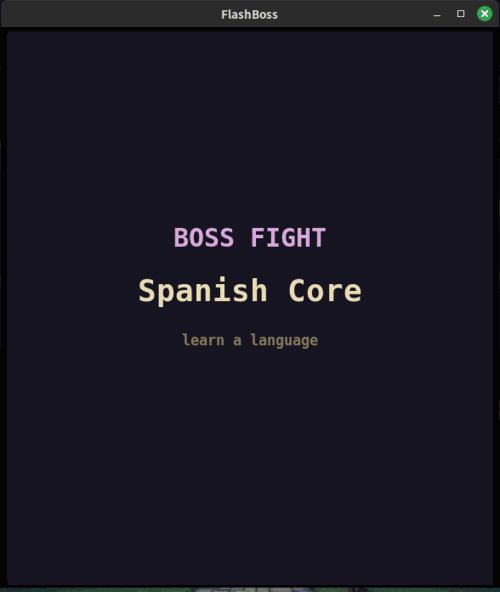
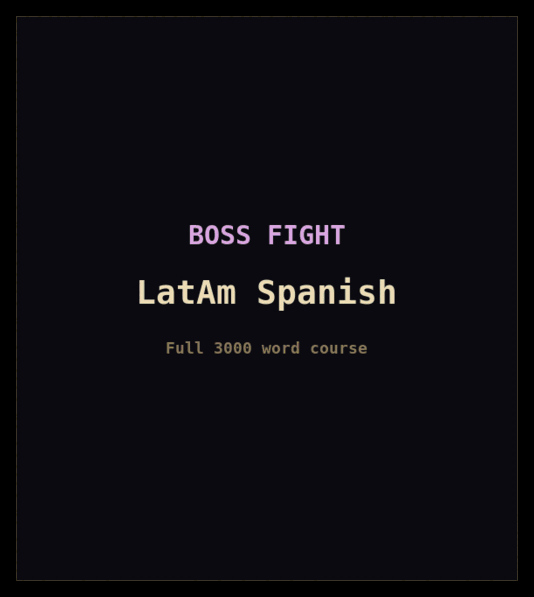
The fight now goes wrong once, and the film is the terminal only, floating in black
A full reshoot of the three English fights, with everything learned since the
first one.

THE ARC. Odiin: "you are supposed to encounter adversity at least once in the
bossfight. get to the killstroke, miss it. fight back, win." A flawless run
films none of what the copy promises -- one step forward with a correct answer,
TWO steps back with each mistake. The routes now walk the hero to position 4,
lose it, and climb back: Danger zone, Correct, Correct, KILLSTROKE POSITION,
"Wrong! Pushed back!", Correct, KILLSTROKE POSITION, VICTORY. The card that was
missed is the one printed in red on the cluster-victory list afterwards.

The route language had no way to be wrong on purpose, so key_script.py gains a
MISS verb. It resolves the RIGHT digit exactly as ANSWER does, so it only fires
on a screen the bench fully understands, then presses a different one. The bench
is a pinned worktree and has been restored byte-identical, with its git status
and local_db back to the baseline; the patch is kept here as
key_script_MISS.patch so the routes stay reproducible and it can go upstream.

THE FORMAT. Odiin: "I want a capture only of the inside of the terminal,
bordered, floating in black. no title bar, no scrollbar." The crop is measured,
not guessed: the terminal paints #171421 and the window border is black, so
walking in from both axes gives 572x644+357+39. No chrome, no wallpaper, no
scrollbar -- there is none.
[…]

diff --git a/home.html b/home.html
@@ -22,7 +22,7 @@
 })();
 </script>
 <title>FlashBoss — Flashcards with Boss Fights</title>
-<meta name="description" content="FlashBoss: spaced-repetition flashcards with boss fights. Build a real vocabulary: English, German, Spanish, Italian, French, Esperanto, or Toki Pona. Five packs free, the rest on Steam. Listen, read, repeat, rate, fight.">
+<meta name="description" content="FlashBoss: spaced-repetition flashcards with boss fights. Build a real vocabulary: English, Latin, French, Swahili, German, Italian, Spanish, Esperanto, or Toki Pona. Five packs free, the rest on Steam. Listen, read, repeat, rate, fight.">
 <link rel="icon" type="image/png" href="icon.png">
 <!-- TODO: hreflang URLs should be absolute (production domain) -->
 <link rel="canonical" href="https://odiin2024.github.io/flashboss-site/home.html">
@@ -181,9 +181,10 @@ p.body b{color:var(--accent);}
 }
 
 /* ---- what you get ---- */
-.gives{display:grid; grid-template-columns:repeat(3,1fr); gap:0; border:1px solid var(--line); border-top:0; position:relative; overflow:hidden;}
+.gives{display:grid; grid-template-columns:repeat(4,1fr); gap:0; border:1px solid var(--line); border-top:0; position:relative; overflow:hidden;}
 .gives::after{content:""; position:absolute; left:0; right:0; top:0; height:3px;
   background:linear-gradient(90deg, var(--gold), var(--green) 52%, var(--blue));}
+@media(max-width:980px){.gives{grid-template-columns:repeat(2,1fr);} .give:nth-child(2n){border-right:0;}}
 @media(max-width:680px){.gives{grid-template-columns:1fr;}}
 .give{padding:30px 22px 26px; border-right:1px solid var(--line); display:flex; flex-direction:column;}
 .give:nth-child(1){background:linear-gradient(180deg, rgba(224,169,63,.08), transparent 58%);}
@@ -271,7 +272,7 @@ footer .footer-links .div{opacity:.4;}
     <div class="wrap">
       <h1 class="reveal">FlashBoss<span class="cursor"></span></h1>
       <p class="sig reveal">spaced-repetition with boss fights</p>
-      <p class="lede reveal">Build a real vocabulary: <b><a href="packs.html">English</a>, <a href="german.html">German</a>, <a href="spanish.html">Spanish</a>, <a href="italian.html">Italian</a>, <a href="french.html">French</a>, <a href="esperanto.html">Esperanto</a>, or <a href="toki-pona.html">Toki Pona</a></b> — then prove it in a duel.</p>
+      <p class="lede reveal">Build a real vocabulary: <b><a href="packs.html">English</a>, <a href="latin.html">Latin</a>, <a href="french.html">French</a>, <a href="swahili.html">Swahili</a>, <a href="german.html">German</a>, <a href="italian.html">Italian</a>, <a href="spanish.html">Spanish</a>, <a href="esperanto.html">Esperanto</a>, or <a href="toki-pona.html">Toki Pona</a></b> — then prove it in a duel.</p>
       <div class="actions reveal">
         <a class="btn" href="wordlists.html">word lists</a>
         <a class="btn" href="lessons.html">lessons</a>
@@ -325,7 +326,7 @@ footer .footer-links .div{opacity:.4;}
           <p><a href="https://flashboss-demo.pages.dev/">Try the live demo &rarr;</a></p>
         </div>
         <a class="bf-box" href="https://flashboss-demo.pages.dev/">
-          <img src="bossfight-poster.png" data-gif="bossfight.gif" alt="Three FlashBoss boss fights in a row, each announced by a title card: Spanish Core asks for the Spanish word for heart, Latin Roots asks which word means a glass tank for fish, and The Guide asks you to name the spell from its rules text.">
+          <img src="bossfight-poster.png" data-gif="bossfight.gif" alt="Three FlashBoss boss fights in a row, each announced by its own title card. LatAm Spanish asks for the Spanish word for heart, Latin Roots asks which word means a glass tank for fish, and The Guide asks you to name the spell from its rules text. Each fight reaches the killstroke position, loses it to a wrong answer and is pushed two steps back, then climbs again and wins.">
           <span class="bf-hint">try the demo</span>
         </a>
       </div>
@@ -348,7 +349,11 @@ footer .footer-links .div{opacity:.4;}
         </div>
         <div class="give">
           <div class="g-h">Full language courses</div>
-          <p>Learn <a href="german.html">German</a>, <a href="italian.html">Italian</a>, <a href="spanish.html">Spanish</a>, <a href="french.html">French</a>, or <a href="esperanto.html">Esperanto</a> with FlashBoss. 3,000 words each — French completes with Pareto 1 and 2, out now.</p>
+          <p>Learn <a href="latin.html">Latin</a>, <a href="french.html">French</a>, <a href="swahili.html">Swahili</a>, <a href="german.html">German</a>, <a href="italian.html">Italian</a>, <a href="spanish.html">Spanish</a> or <a href="esperanto.html">Esperanto</a> with FlashBoss. Most run 3,000 words across Core, Pareto 1 and Pareto 2 — Latin is a 2,000-word reading course, and Swahili's Core is out with its Pareto packs to come.</p>
+        </div>
+        <div class="give">
+          <div class="g-h">Not a language at all</div>
+          <p><a href="the-guide.html">The Guide</a> — the rules a game master needs in their head, as flashcards. 1,205 cards in 62 clusters, 5E compatible.</p>
         </div>
       </div>
     </div>

diff --git a/index.ru.html b/index.ru.html
@@ -4,7 +4,7 @@
     <meta charset="UTF-8">
     <meta name="viewport" content="width=device-width, initial-scale=1.0, viewport-fit=cover">
     <title>FlashBoss — Карточки с босс-файтами</title>
-    <meta name="description" content="FlashBoss — карточки с интервальным повторением и настоящими босс-файтами. Пять языковых курсов: английский, немецкий, испанский, итальянский и эсперанто. Уже в Steam.">
+    <meta name="description" content="FlashBoss — карточки с интервальным повторением и настоящими босс-файтами. Восемь языковых курсов: латынь, французский, суахили, немецкий, итальянский, испанский, эсперанто и Toki Pona, а также английский, серия Roots и The Guide для мастеров. Уже в Steam.">
     <meta name="theme-color" content="#0a0a19">
 
     <meta property="og:type" content="website">

diff --git a/index.ja.html b/index.ja.html
@@ -4,7 +4,7 @@
     <meta charset="UTF-8">
     <meta name="viewport" content="width=device-width, initial-scale=1.0, viewport-fit=cover">
     <title>FlashBoss — ボス戦つきフラッシュカード</title>
-    <meta name="description" content="FlashBoss — 本物のボス戦と間隔反復のフラッシュカード。5つの語学コース：英語・ドイツ語・スペイン語・イタリア語・エスペラント語。Steamで発売中。">
+    <meta name="description" content="FlashBoss — 本物のボス戦と間隔反復のフラッシュカード。8つの語学コース：ラテン語・フランス語・スワヒリ語・ドイツ語・イタリア語・スペイン語・エスペラント語・トキポナ。さらに英語、Rootsシリーズ、ゲームマスターのためのThe Guide。Steamで発売中。">
     <meta name="theme-color" content="#0a0a19">
 
     <meta property="og:type" content="website">

diff --git a/index.zh.html b/index.zh.html
@@ -4,7 +4,7 @@
     <meta charset="UTF-8">
     <meta name="viewport" content="width=device-width, initial-scale=1.0, viewport-fit=cover">
     <title>FlashBoss — 带头目战的闪卡</title>
-    <meta name="description" content="FlashBoss——真正的头目战与间隔重复闪卡。5 门语言课程：英语、德语、西班牙语、意大利语、世界语。已在 Steam 发售。">
+    <meta name="description" content="FlashBoss——真正的头目战与间隔重复闪卡。8 门语言课程：拉丁语、法语、斯瓦希里语、德语、意大利语、西班牙语、世界语与 Toki Pona，另有英语、Roots 系列，以及写给带团的人的 The Guide。已在 Steam 发售。">
     <meta name="theme-color" content="#0a0a19">
 
     <meta property="og:type" content="website">

diff --git a/index.de.html b/index.de.html
@@ -4,7 +4,7 @@
     <meta charset="UTF-8">
     <meta name="viewport" content="width=device-width, initial-scale=1.0, viewport-fit=cover">
     <title>FlashBoss — Karteikarten mit Bossfights</title>
-    <meta name="description" content="FlashBoss — Karteikarten mit echten Bossfights und Spaced Repetition. Fünf Sprachkurse: Englisch, Deutsch, Spanisch, Italienisch und Esperanto. Jetzt auf Steam.">
+    <meta name="description" content="FlashBoss — Karteikarten mit echten Bossfights und Spaced Repetition. Acht Sprachkurse: Latein, Französisch, Swahili, Deutsch, Italienisch, Spanisch, Esperanto und Toki Pona, dazu Englisch, die Roots Series und The Guide für Spielleitungen. Jetzt auf Steam.">
     <meta name="theme-color" content="#0a0a19">
 
     <meta property="og:type" content="website">

diff --git a/index.es.html b/index.es.html
@@ -4,7 +4,7 @@
     <meta charset="UTF-8">
     <meta name="viewport" content="width=device-width, initial-scale=1.0, viewport-fit=cover">
     <title>FlashBoss — Tarjetas con boss fights</title>
-    <meta name="description" content="FlashBoss — tarjetas de repetición espaciada con boss fights de verdad. Cinco cursos de idiomas: inglés, alemán, español, italiano y esperanto. Ya en Steam.">
+    <meta name="description" content="FlashBoss — tarjetas de repetición espaciada con boss fights de verdad. Ocho cursos de idiomas: latín, francés, suajili, alemán, italiano, español, esperanto y Toki Pona, más inglés, la serie Roots y The Guide para directores de juego. Ya en Steam.">
     <meta name="theme-color" content="#0a0a19">
 
     <meta property="og:type" content="website">

diff --git a/index.html b/index.html
@@ -4,7 +4,7 @@
     <meta charset="UTF-8">
     <meta name="viewport" content="width=device-width, initial-scale=1.0, viewport-fit=cover">
     <title>FlashBoss — Flashcards with Boss Fights</title>
-    <meta name="description" content="FlashBoss — spaced-repetition flashcards with real boss fights. Five language courses: English, German, Spanish, Italian, and Esperanto. Now live on Steam.">
+    <meta name="description" content="FlashBoss — spaced-repetition flashcards with real boss fights. Eight language courses: Latin, French, Swahili, German, Italian, Spanish, Esperanto and Toki Pona, plus English, the Roots Series, and The Guide for game masters. Now live on Steam.">
     <meta name="theme-color" content="#0a0a19">
 
     <meta property="og:type" content="website">
